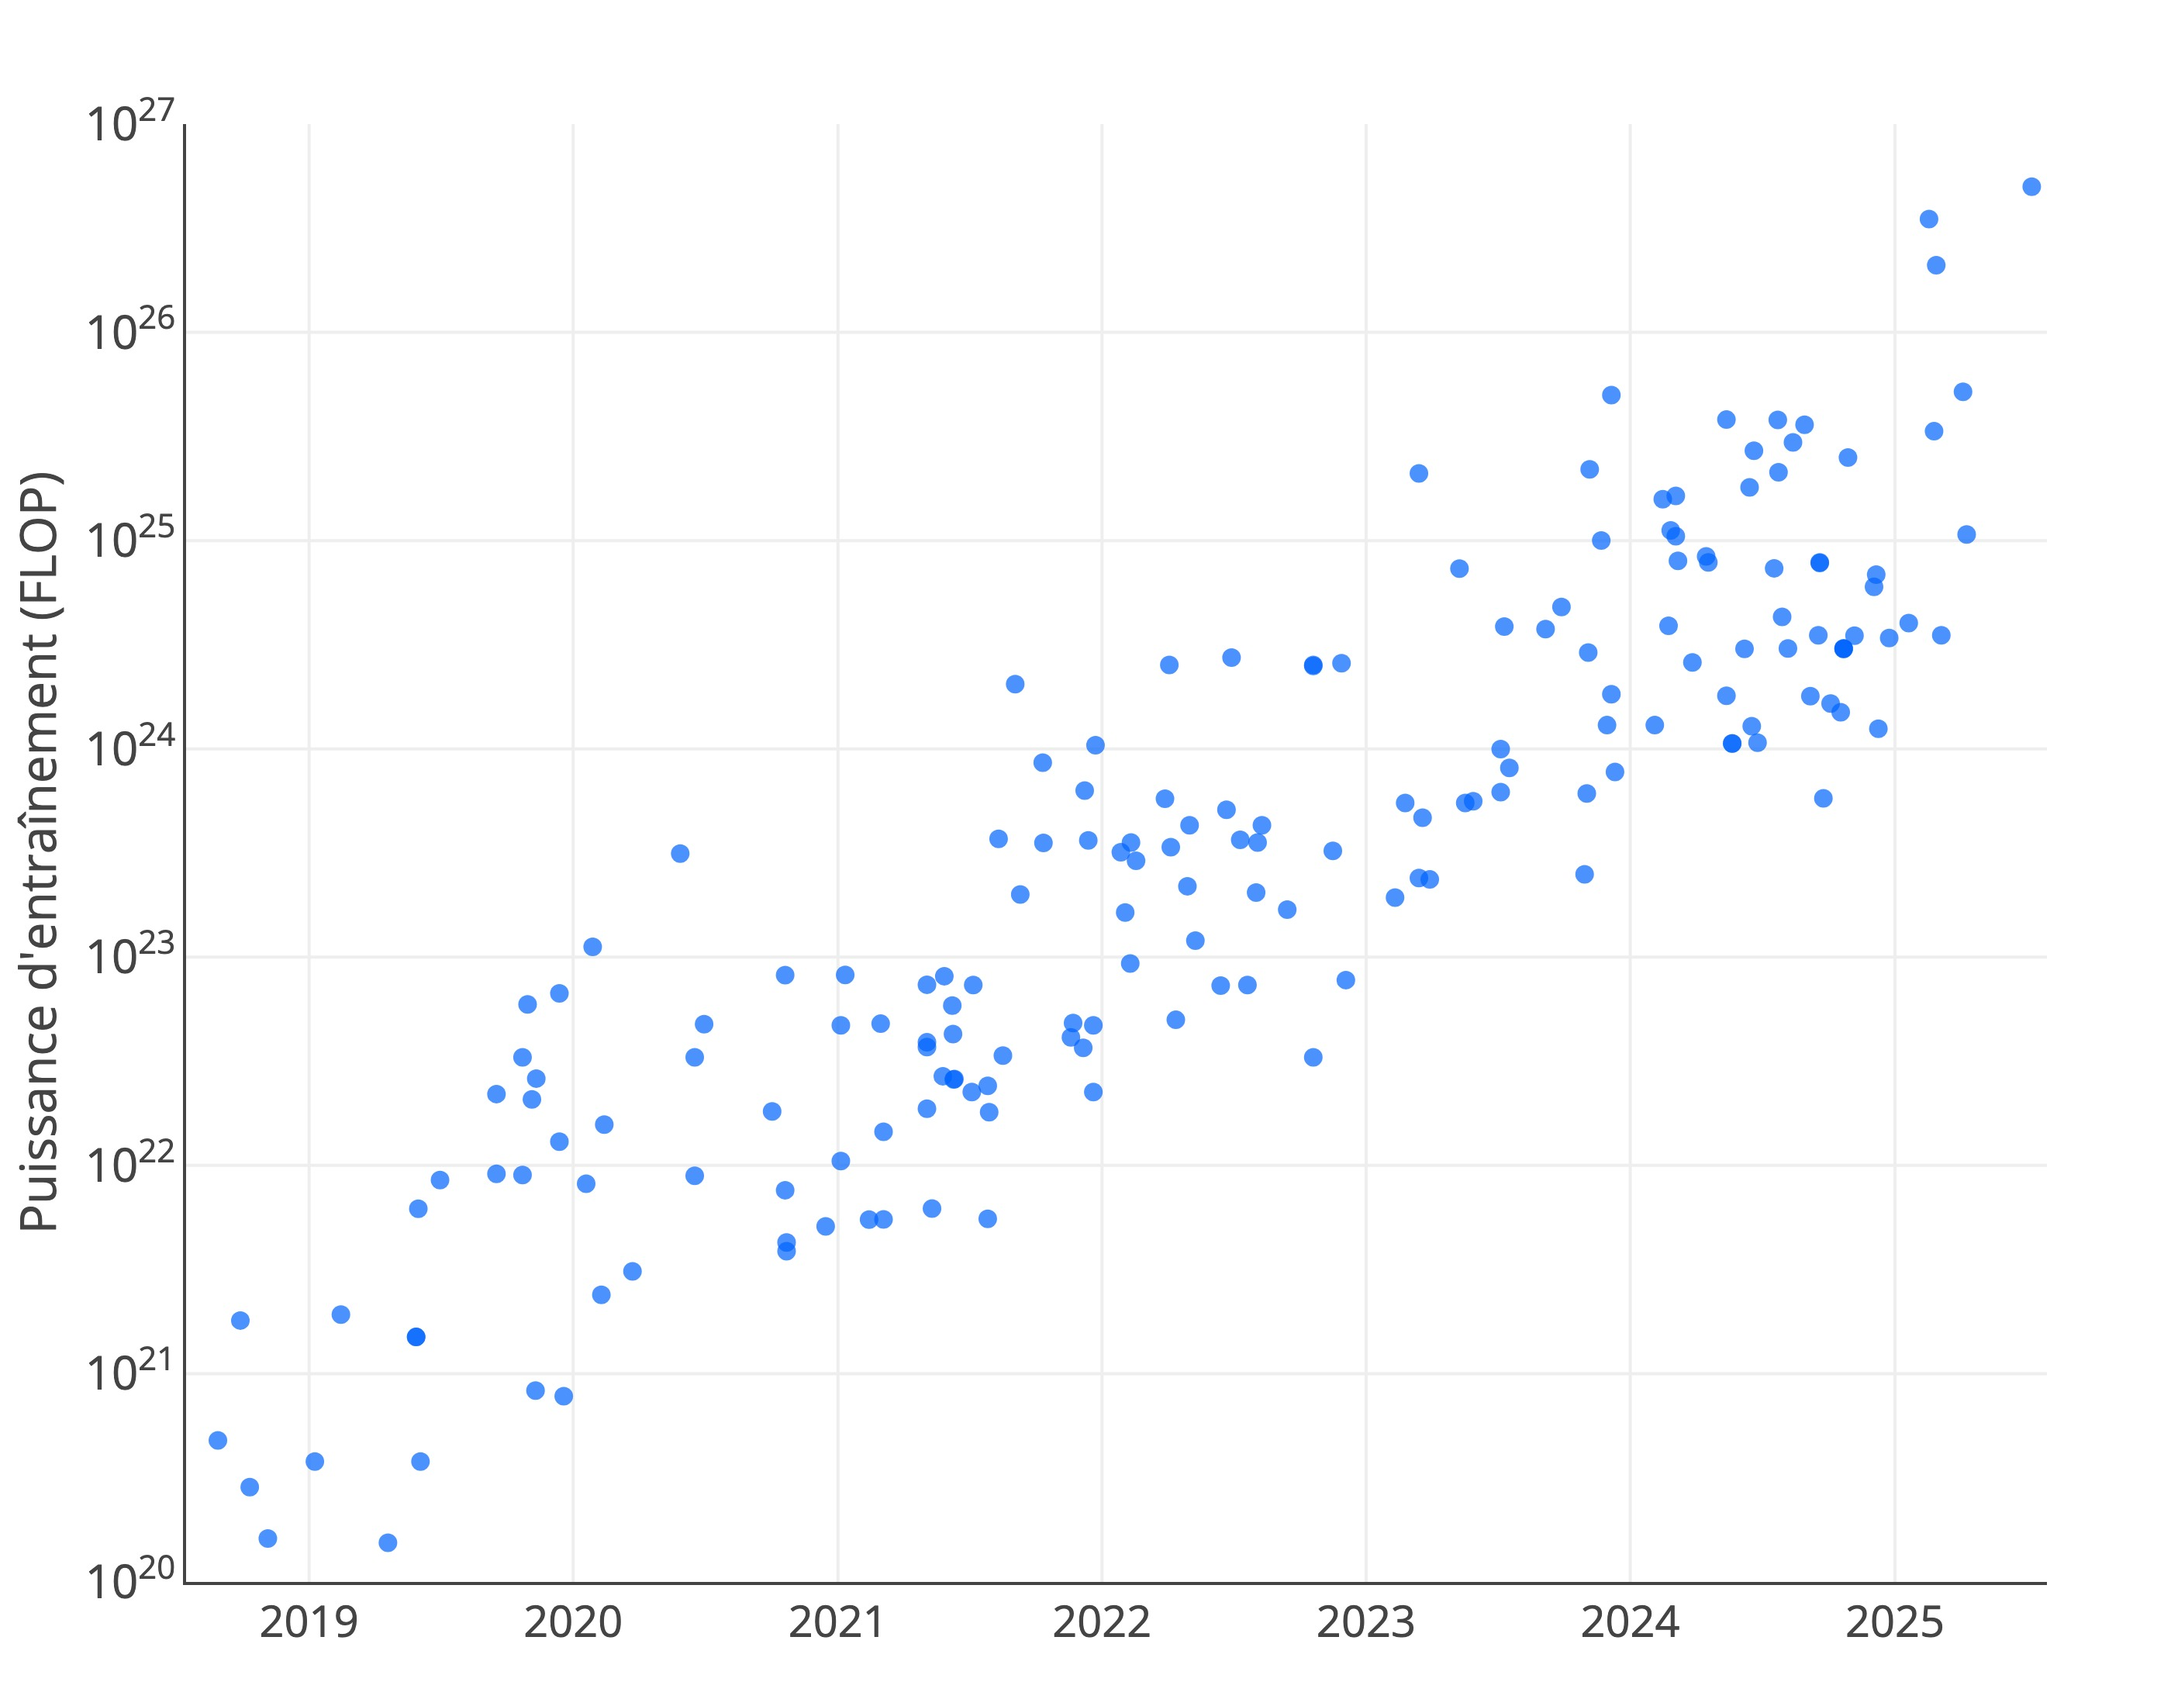
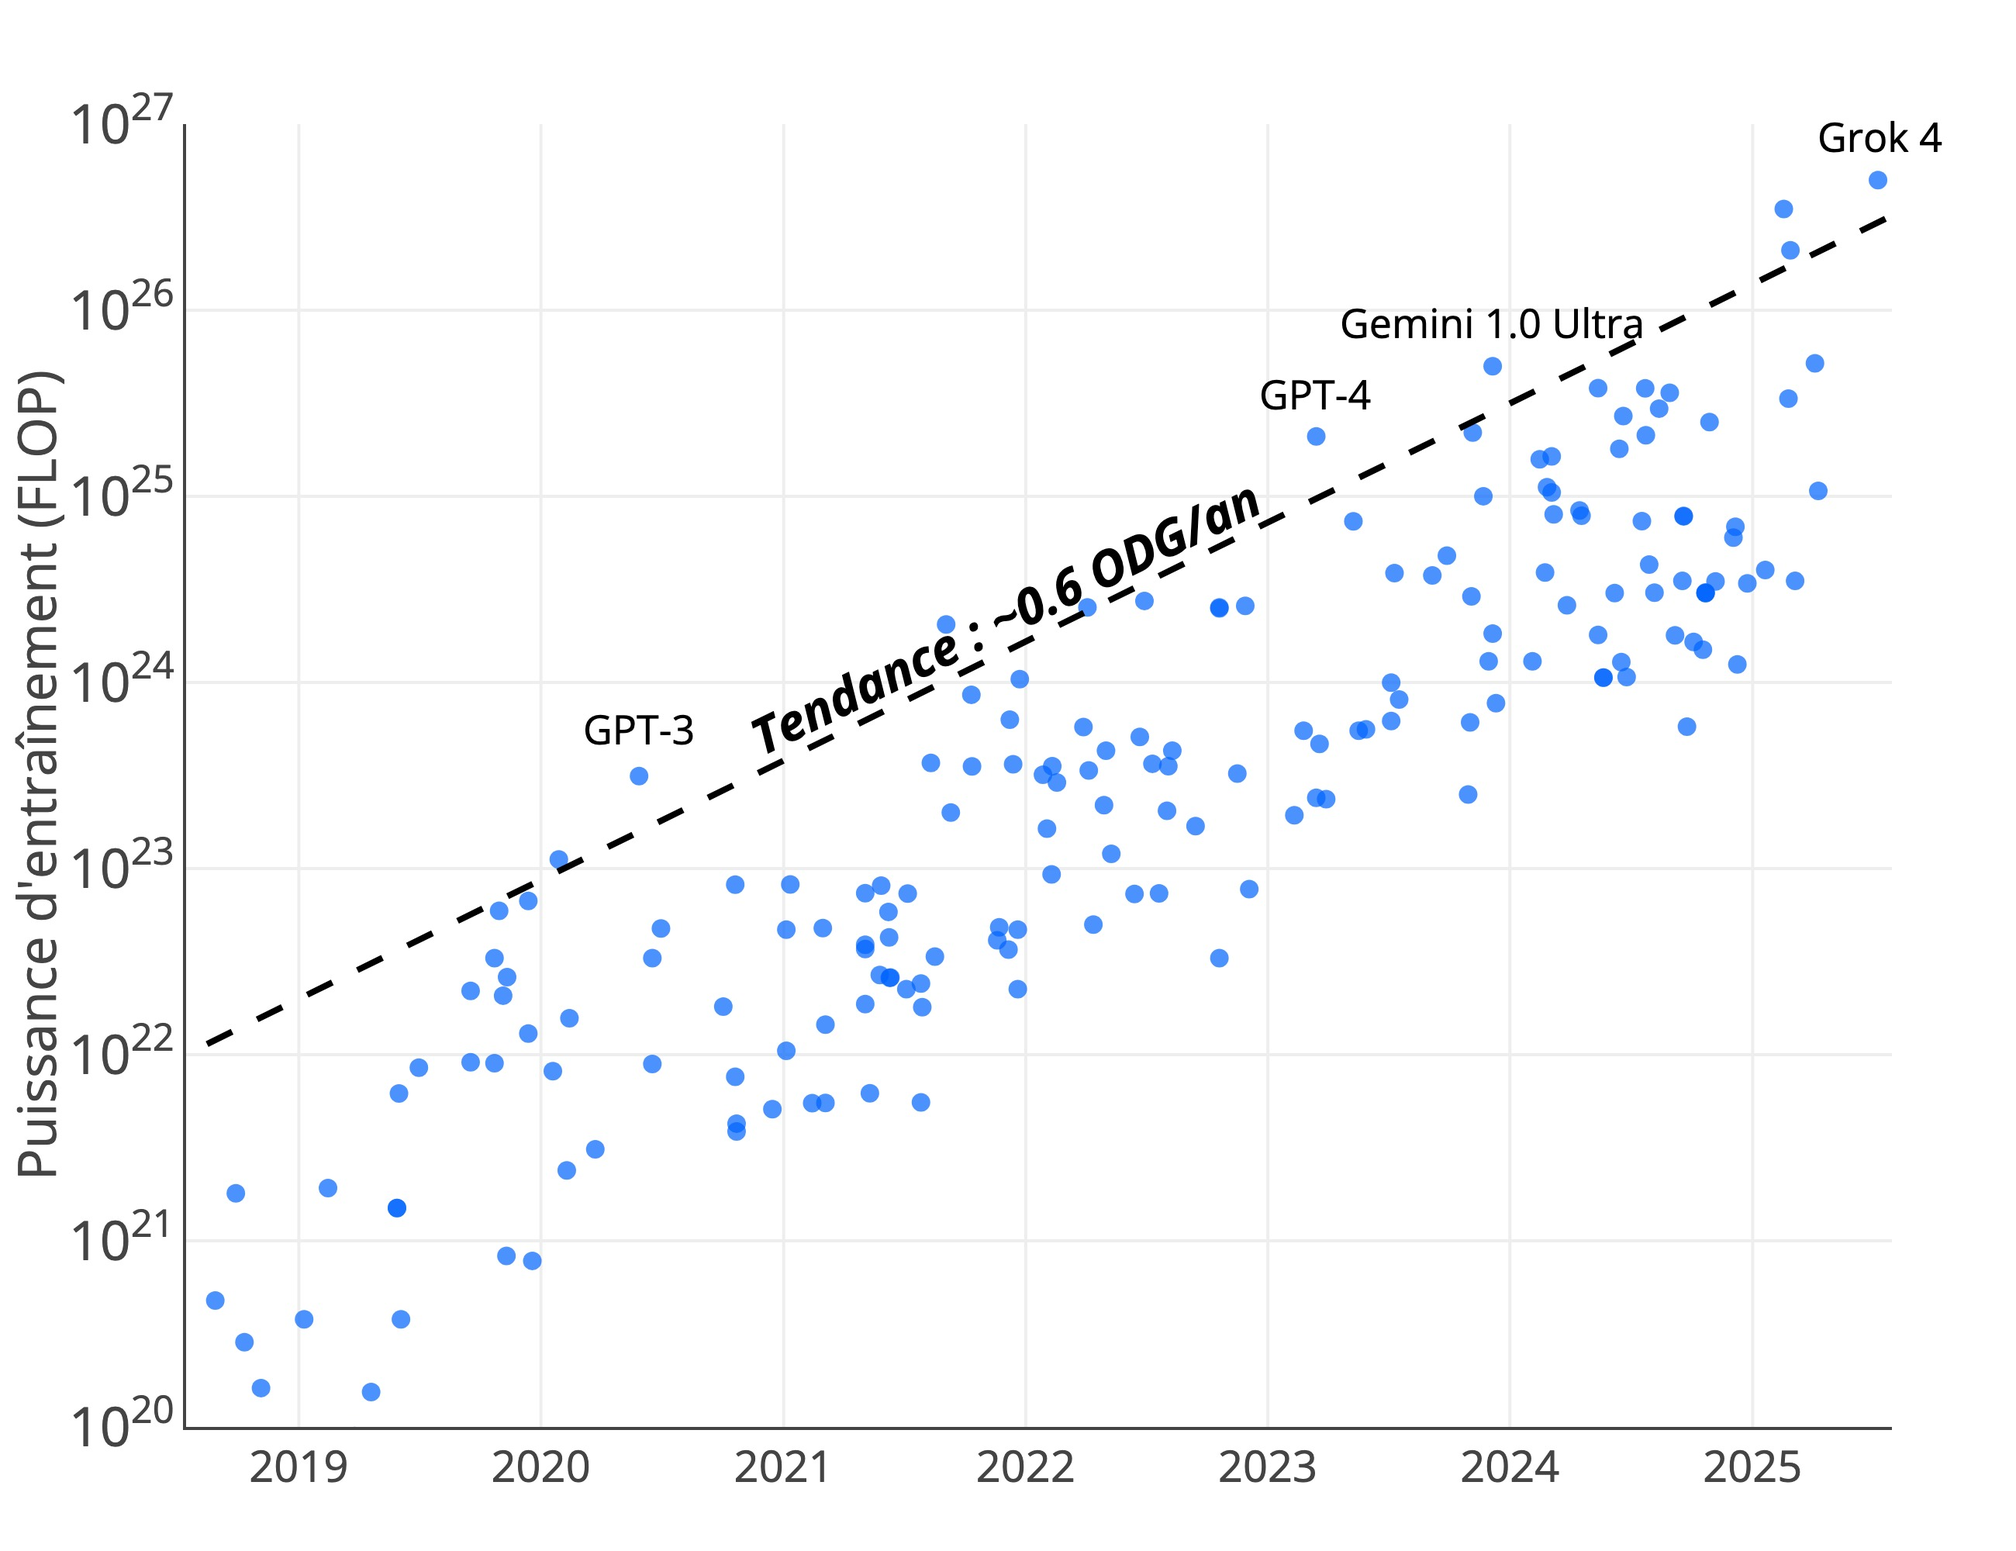
Update figures

diff --git a/src/graphes_livre/20_model_training_growth_epoch/plot.py b/src/graphes_livre/20_model_training_growth_epoch/plot.py
@@ -1,5 +1,6 @@
 from datetime import datetime
 
+import numpy as np
 import pandas as pd
 import plotly.graph_objects as go
 
@@ -27,6 +28,71 @@ def main():
         )
     )
 
+    # Add trend line: 0.6 ODG/year (ODG = Orders of magnitude)
+    # Line goes from 2019 to 2025
+    trend_years = np.array([2018, 2026])
+    # Starting point around 10^21, growing by 0.6 orders of magnitude per year
+    base_log = 22.3  # in 2019
+    trend_y = 10 ** (base_log + 0.64 * (trend_years - 2019))
+
+    fig.add_trace(
+        go.Scatter(
+            x=trend_years,
+            y=trend_y,
+            mode="lines",
+            line=dict(dash="dash", color="black", width=2),
+            showlegend=False,
+            hoverinfo="none",
+        )
+    )
+
+    # Add specific model annotations
+    annotations = [
+        {
+            "model": "GPT-3",
+            "date": "2020-05-28",
+            "compute": 23.314,
+        },
+        {
+            "model": "GPT-4",
+            "date": "2023-03-15",
+            "compute": 25.12,
+        },
+        {
+            "model": "Gemini 1.0 Ultra",
+            "date": "2023-12-06",
+            "compute": 25.5,
+        },
+        {
+            "model": "Grok 4",
+            "date": "2025-07-09",
+            "compute": 26.5,
+        },
+    ]
+
+    for ann in annotations:
+        fig.add_annotation(
+            x=ann["date"],
+            y=ann["compute"],
+            text=ann["model"],
+            showarrow=False,
+            xshift=0,
+            yshift=15,
+            xanchor="center",
+            yanchor="bottom",
+            font=dict(size=13, color="black"),
+        )
+
+    # Add trend line annotation
+    fig.add_annotation(
+        x=datetime(2021, 12, 1),
+        y=24.35,
+        text="Tendance : ~0.6 ODG/an",
+        showarrow=False,
+        textangle=-26,
+        font=dict(size=16, color="black", weight="bold", style="italic"),
+    )
+
     fig.update_layout(
         xaxis=dict(
             range=[datetime(2018, 7, 15), datetime(2025, 7, 30)],
@@ -46,13 +112,15 @@ def main():
     fig.update_layout(
         yaxis=dict(
             title="Puissance d'entraînement (FLOP)",
-            title_font_size=16,
             # title_font_weight="bold",
-            tickfont_size=12,
         ),
+        showlegend=False,
     )
     fig.update_layout(margin=dict(l=60, r=40, t=40, b=40))
-    fig.write_image(get_output_path("jpg"), width=700, height=550, scale=4)
+    fig.update_xaxes(tickfont_size=14)
+    fig.update_yaxes(tickfont_size=14)
+    fig.write_html("epoch_progress.html")
+    fig.write_image(get_output_path("jpg"), width=650, height=500, scale=4)
 
 
 if __name__ == "__main__":

diff --git a/src/graphes_livre/23_agriculture_emplois/plot.py b/src/graphes_livre/23_agriculture_emplois/plot.py
@@ -10,17 +10,16 @@ BEGIN_YEAR = 1900
 df = pd.read_csv("data/number-of-people-employed-in-agriculture.csv")
 print(df.dtypes)
 
+country_names = {
+    "Japan": "Japon",
+    "France": "France",
+    "Spain": "Espagne",
+    "United Kingdom": "Royaume-Uni",
+    "United States": "Etats-Unis",
+}
 selected_countries = ["France", "Japan", "Spain", "United States", "United Kingdom"]
 df = df.loc[(df["Entity"].isin(selected_countries)) & (df["Year"] >= 1900)]
-df["Entity"] = df["Entity"].map(
-    {
-        "Japan": "Japon",
-        "France": "France",
-        "Spain": "Espagne",
-        "United Kingdom": "Royaume-Uni",
-        "United States": "Etats-Unis",
-    }
-)
+df["Entity"] = df["Entity"].map(country_names)
 
 fig = px.line(
     x=df["Year"],
@@ -43,5 +42,28 @@ fig.update_yaxes(
     tickvals=[5, 10, 15],
     ticktext=["5", "10", "15"],
 )
+# Create mapping from country name to trace index
+country_to_trace = {trace.name: i for i, trace in enumerate(fig.data)}
+
+for country_name in country_names.values():
+    height = (
+        df[(df["Entity"] == country_name) & (df["Year"].isin(list(range(1900, 1911))))][
+            "number_employed_agri"
+        ].mean()
+        / 1e6
+    )
+    # Get the color from the corresponding trace
+    trace_index = country_to_trace[country_name]
+    line_color = fig.data[trace_index].line.color
+    fig.add_annotation(
+        x=1902,
+        y=height,
+        text=country_name,
+        showarrow=False,
+        xanchor="left",
+        yanchor="bottom",
+        font=dict(size=13, color=line_color, weight="bold"),
+        yshift=10,
+    )
 # Show the plot
 fig.write_image(get_output_path("jpg"), width=700, height=450, scale=4)

diff --git a/src/graphes_livre/3_reseau/plot.py b/src/graphes_livre/3_reseau/plot.py
@@ -228,4 +228,4 @@ def create_neural_network_visualization(
 
 nn_viz = create_neural_network_visualization()
 nn_viz.tight_layout()
-plt.savefig(get_output_path("jpg"), dpi=500)
+plt.savefig(get_output_path("jpg"), dpi=800)
